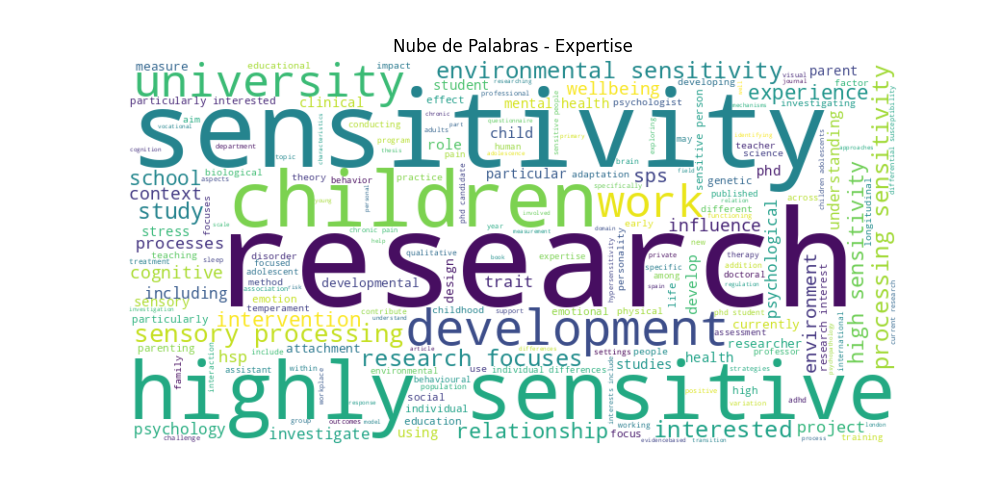
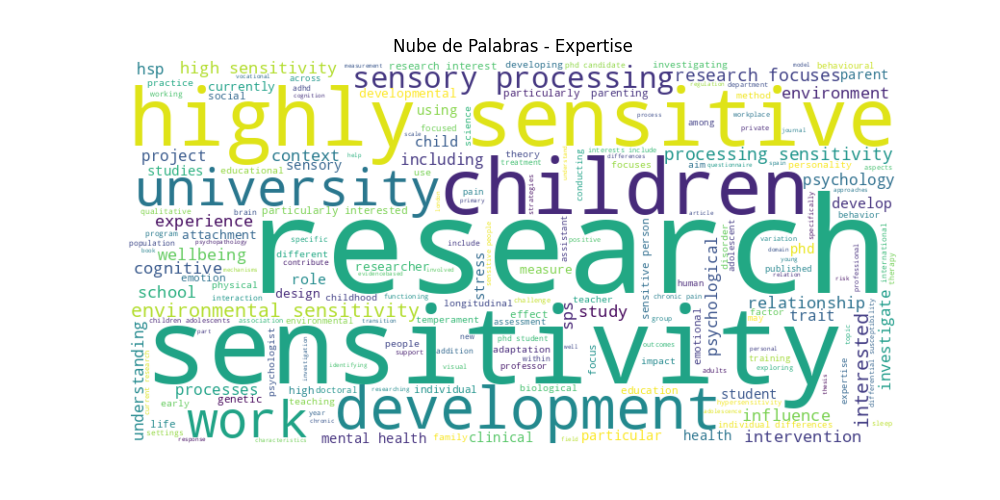
Commit changes 12

diff --git a/src/researchers.py b/src/researchers.py
@@ -76,20 +76,12 @@ def scrape_researcher_details(profile_url: str) -> Dict:
 
     soup = get_soup(profile_url)
 
-    # details = {
-    #     'Full Expertise': '',
-    #     'Email': '',
-    #     'Discipline': '',
-    #     'Location': ''
-    # }
-
     researcher_card = {
         'Name': None,
         'Title': None,
-        'Institution': None,
         'Expertise': None,
         'Discipline of research': None,
-        'Location': None,
+        'Institution': None,
         'Contact':None
     }
 
@@ -129,10 +121,10 @@ def scrape_researcher_details(profile_url: str) -> Dict:
 
         researcher_card['Expertise'] = re.sub(r'\s+', ' ', cleaned_paragraph).strip()
             #(expertise_section.find('h3').g.get_text(strip=True))
-        print(researcher_card)
+        # print(researcher_card)
 
     #---------------------------------------
-    # 2do bloque: disciplina, ubicacion e e-mail
+    # 2do bloque: disciplina, Institucion e e-mail
     #---------------------------------------
 
     card_section = card_details.select_one('.fl-col:nth-of-type(2) .fl-module-html .fl-html')
@@ -141,7 +133,7 @@ def scrape_researcher_details(profile_url: str) -> Dict:
     # recuperamos una lista por balizas de <p>
     if card_section:
         info_paragraph = card_section.find_all('p')
-        print(f'Bloque 2 {info_paragraph}')
+        # print(f'Bloque 2 {info_paragraph}')
 
     # 1. Disciplina de investigacion
     if len(info_paragraph) > 0:
@@ -154,28 +146,26 @@ def scrape_researcher_details(profile_url: str) -> Dict:
             researcher_card['Discipline of research'] = re.sub(r'\s+', ' ', discipline).strip()
         else:
             researcher_card['Discipline of research'] = 'N/A'
-        print(researcher_card['Discipline of research'])
+        # print(researcher_card['Discipline of research'])
 
     #2. Ubicacion
     if len(info_paragraph) > 1:
-        print(f'info {info_paragraph[1]}')
+        # print(f'info {info_paragraph[1]}')
         # texto se encuentra despues de un <br/>
         tag_location = info_paragraph[1]
-        print(f' tag_loc {tag_location}')
+        # print(f' tag_loc {tag_location}')
         buffer2 = tag_location.text.strip()
         feature2 = 'Location:'
-        print(f'buffer {buffer2}')
+        # print(f'buffer {buffer2}')
 
         if feature2 in buffer2:
             tag_location = buffer2.split(feature2, 1)[1].strip()
-            print(f' tag_loc_2 {tag_location}')
+            # print(f' tag_loc_2 {tag_location}')
             chunks_location = [chunk.strip(",").strip() for chunk in tag_location.split('\n') if chunk.strip()]
-            #location = tag_location.next_sibling.strip().strip('"')
-            #researcher_card['Location'] = re.sub(r'\s+', ' ', location).strip()
-            researcher_card['Location'] = ', '.join(chunks_location)
+            researcher_card['Institution'] = ', '.join(chunks_location)
         else:
-            researcher_card['Location'] = 'N/A'
-        print(researcher_card['Location'])
+            researcher_card['Institution'] = 'N/A'
+        # print(researcher_card['Institution'])
 
     # 3. Contacto
     if len(info_paragraph) > 2:
@@ -186,7 +176,7 @@ def scrape_researcher_details(profile_url: str) -> Dict:
             researcher_card['Contact'] = contacto.text.strip()
         else:
             researcher_card['Contact'] = 'N/A'
-        print(researcher_card['Contact'])
+        # print(researcher_card['Contact'])
 
 
 
@@ -196,11 +186,11 @@ def scrape_researcher_details(profile_url: str) -> Dict:
 
     # 2. Contacto (Buscamos un patrón de email)
     # Aplicamos RegEx para extraer emails (patrón general: user@domain.tld)
-    print(researcher_card)
+    # print(researcher_card)
     return researcher_card
 
-def compile_researcher_directory(directory: List[Dict]) -> pd.DataFrame:
 
+def compile_researcher_directory(directory: List[Dict]) -> pd.DataFrame:
 
     directory_list = []
     df_url_directory = list_to_dataframe(directory)
@@ -210,5 +200,5 @@ def compile_researcher_directory(directory: List[Dict]) -> pd.DataFrame:
         details = scrape_researcher_details(url)
         directory_list.append(details)
 
-    print(f'DIRECTORY LIST: {directory_list}')
+    # print(f'DIRECTORY LIST: {directory_list}')
     return pd.DataFrame(directory_list)

diff --git a/src/utils.py b/src/utils.py
@@ -39,8 +39,8 @@ def get_researcher_url_by_index(index_nb: int, df: pd.DataFrame) -> str:
     """Guarda una lista de diccionarios en un archivo CSV."""
     #global df_researchers
     researcher_url = df.loc[index_nb, "Profile URL"]
-    print(f'ESTE TIPO ES DEL URL {type(researcher_url)}')
-    print(f'URL: {researcher_url}')
+    # print(f'ESTE TIPO ES DEL URL {type(researcher_url)}')
+    # print(f'URL: {researcher_url}')
     return researcher_url
 
 def feature_extraction_pipeline(df_initial: pd.DataFrame) -> pd.DataFrame:
@@ -95,49 +95,60 @@ def expertise_extraction_pipeline(df_initial: pd.DataFrame, text_column: str):
 
     word_freq = tokenizer.get_word_frequency()
     print("Palabras más comunes:")
-    print(word_freq.most_common(20))
+    print(word_freq.most_common(30))
 
     tokenizer.generate_wordcloud(save_path="./data/wordcloud.png")
 
     bigram_freq = tokenizer.get_ngram_frequency(n=2, language='english')
     print("Bigramas más comunes:")
-    print(bigram_freq.most_common(20))
+    print(bigram_freq.most_common(30))
 
     trigram_freq = tokenizer.get_ngram_frequency(n=3, language='english')
     print("Trigramas más comunes:")
-    print(trigram_freq.most_common(20))
+    print(trigram_freq.most_common(30))
 
 
     # 3. Seleccionar las columnas finales y renombrar
     # df_result = tokenizer.select_and_rename_final_columns()
 
-    top_bigrams = tokenizer.get_top_ngrams(n=2, top_n=20)
-    print("Top Bigrams:")
+    top_words = tokenizer.get_top_ngrams(n=1, top_n=30)
+    print("Palabras más comunes:")
+    print(top_words)
+
+    # Nueva columna de ngrams comunes con cada investigador
+    tokenizer.add_ngrams_column(n=1, list_ngrams=top_words, new_column_name='Expertise_By_words')
+
+    top_bigrams = tokenizer.get_top_ngrams(n=2, top_n=30)
+    print("Bigrams más comunes:")
     print(top_bigrams)
 
     # Nueva columna de ngrams comunes con cada investigador
-    tokenizer.add_ngrams_column(top_bigrams, new_column_name='Expertise_Bigrams')
+    tokenizer.add_ngrams_column(n=2, list_ngrams=top_bigrams, new_column_name='Expertise_Bigrams')
 
     top_trigrams = tokenizer.get_top_ngrams(n=3, top_n=10)
-    print("Top Trigrams:")
+    print("Trigrams más comunes:")
     print(top_trigrams)
 
     # Nueva columna de ngrams comunes con cada investigador
-    tokenizer.add_ngrams_column(top_trigrams, new_column_name='Expertise_Trigrams')
-
+    tokenizer.add_ngrams_column(n=3, list_ngrams=top_trigrams, new_column_name='Expertise_Trigrams')
 
     return
+
 
 def save_dataframe_to_csv(df: pd.DataFrame, filename):
     """Guarda una lista de diccionarios en un archivo CSV."""
 
     df.to_csv(f"data/{filename}.csv", index=False, encoding='utf-8')
+
     print(f"\nDatos guardados exitosamente en data/{filename}")
     return
+
 
 def save_data(data: List[Dict], filename):
     """Guarda una lista de diccionarios en un archivo CSV."""
     df = pd.DataFrame(data)
     df.to_csv(f"data/{filename}", index=False, encoding='utf-8')
+
     print(f"\nDatos guardados exitosamente en data/{filename}")
     return df
+

diff --git a/src/expertise.py b/src/expertise.py
@@ -127,19 +127,22 @@ class ExpertiseAnalyzer:
         return [ngram for ngram, count in ngram_freq.most_common(top_n)]
 
     def add_ngrams_column(
-            self, keywords: List[str], new_column_name: str = 'Keywords'
+            self, n: int = 3, list_ngrams: List[str] = "", new_column_name: str = 'Keywords'
                             ) -> None:
         """
         Añade una nueva columna al DataFrame con las palabras clave que coinciden
         con el expertise del investigador
 
-        :param keywords: Lista de palabras clave de interés
+        :param n: numero de gramas
+        :param list_ngrams: Lista de palabras clave de interés
         :param new_column_name: Nombre de la nueva columna
         :return: None
         """
         self.df[new_column_name] = self.df[self.text_column].apply(
-            lambda text: ', '.join([word for word in keywords if word in
-        self.clean_and_tokenize(text)])
+            lambda text: ', '.join(
+                [ngram for ngram in list_ngrams if ngram in ' '.join(
+                    self.extract_ngrams(self.clean_and_tokenize(text), n=n))])
         )
+        return
 
 

diff --git a/src/measures.py b/src/measures.py
@@ -33,7 +33,7 @@ def scrape_sensitivity_measures() -> pd.DataFrame:
     thead = soup.find("thead")
     if thead:
         header = thead.find_all("th")
-        print(header)
+        # print(header)
         for th in header:
             if th:
                 headers.append(th.text.strip())
@@ -43,7 +43,7 @@ def scrape_sensitivity_measures() -> pd.DataFrame:
         no ha podido ser recuperarda")
         # Tabla tiene 5 columnas
         headers = [f'Column {i+1}' for i in range(5)]
-        print(headers)
+        # print(headers)
 
     # Extraemos las fiilas de datos
     table_data = []
